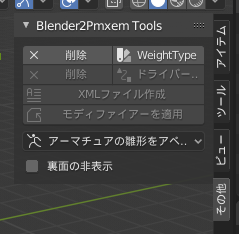
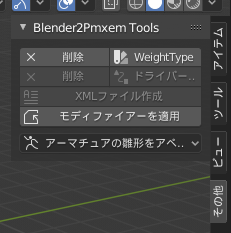
裏面を非表示を削除

diff --git a/_features/object_mode_panel.md b/_features/object_mode_panel.md
@@ -50,6 +50,3 @@ XMLファイルを作成する元になる.pmxファイルを選択します。.
 MikuMikuDanceの標準的なボーン構成に沿った人型ボーンのアーマチュアをアペンドします。
 
 身長の異なる4タイプの雛形があります。
-
-### 裏面の非表示
-ポリゴンの裏面の表示非表示を切り替えます。「3Dビューのシェーディング」メニューの「裏面の非表示」オプションと同一です。
